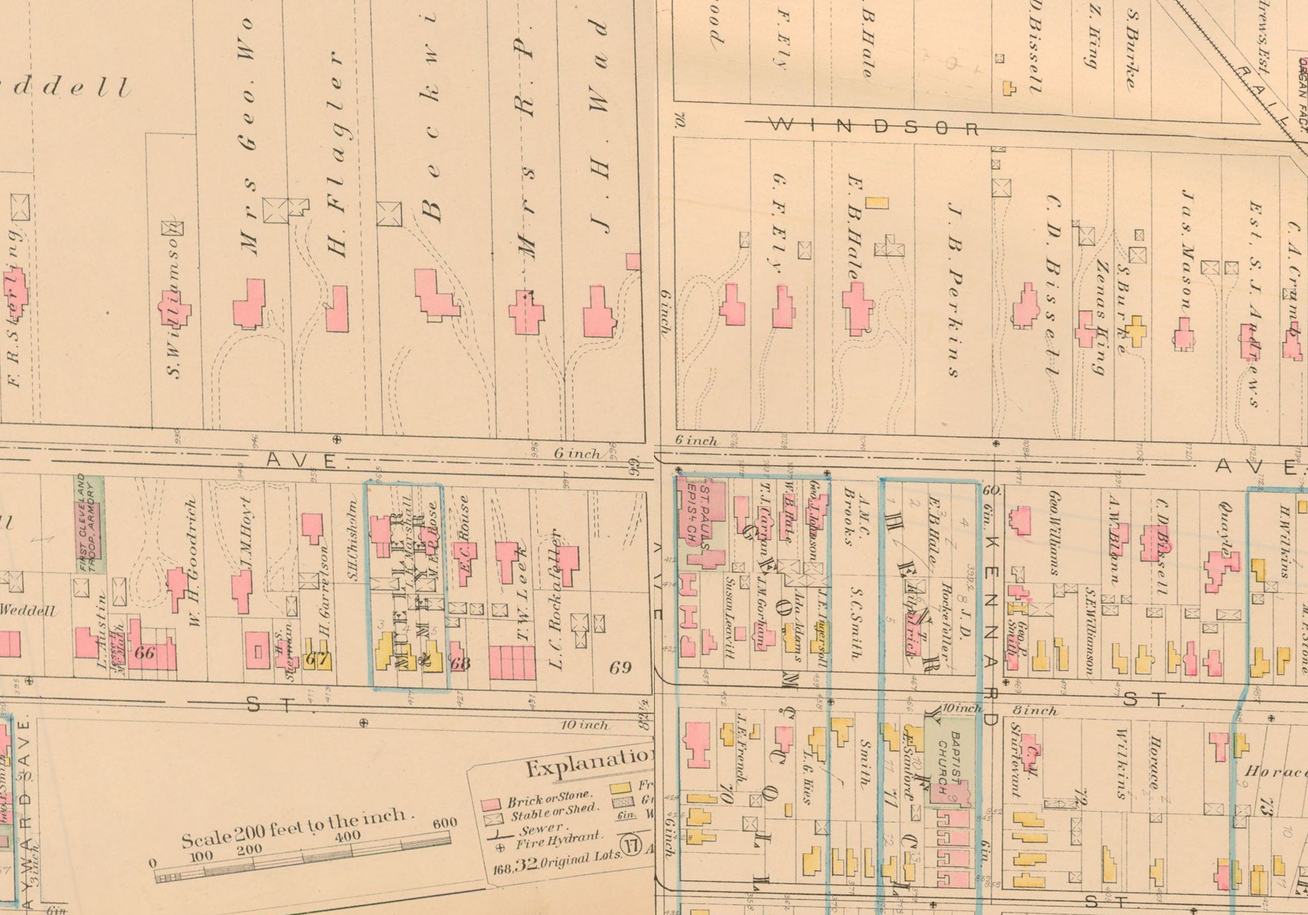
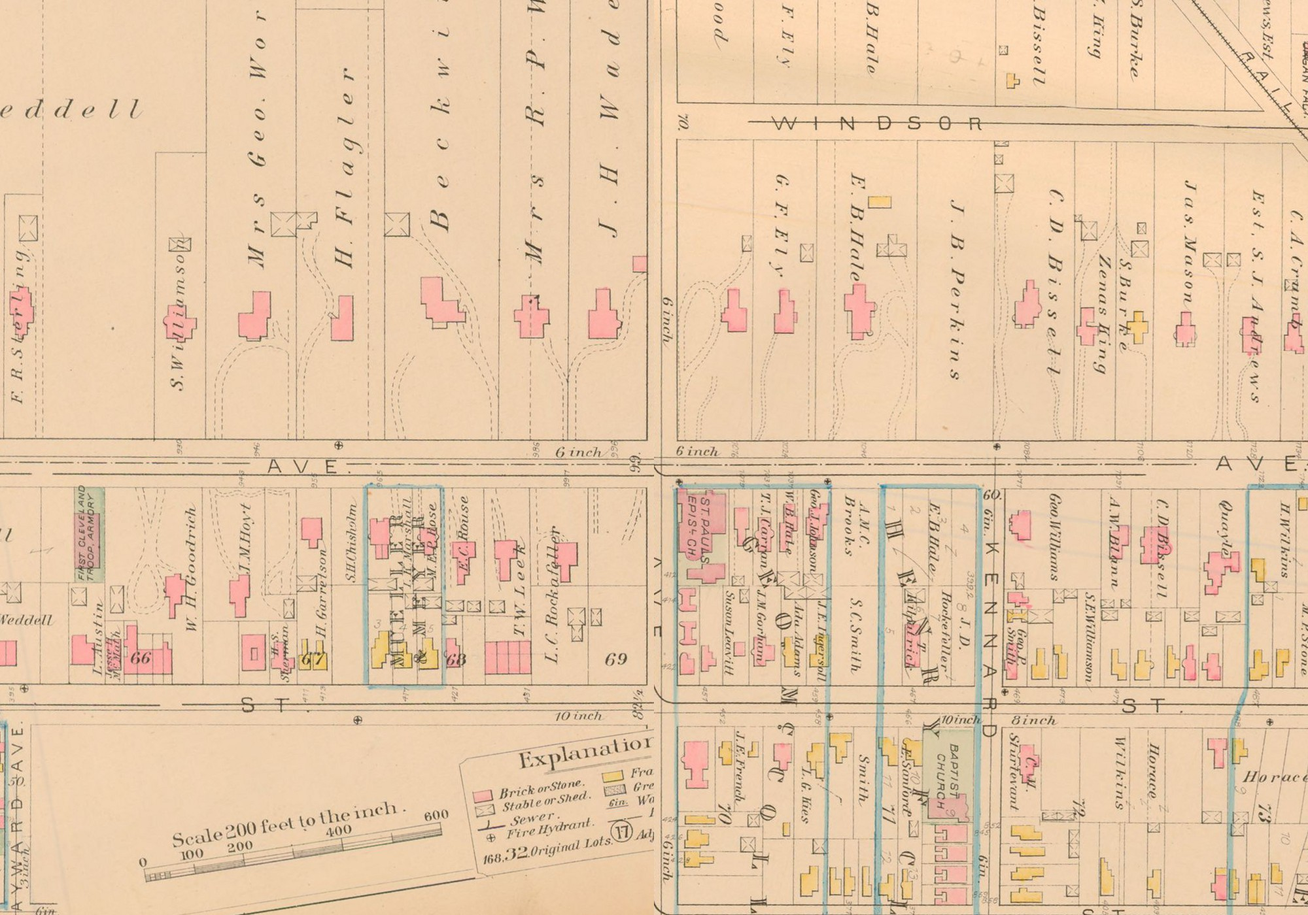
Fix the plate seam at Case: refine both plates against measured street lines
The four-point affine fits left Euclid tilted ~1.7 degrees and a ~20 px step in Euclid and
Prospect at the seam. A second pass pulls lot lines and Case lines measured on both plates onto
shared targets; building footprints and the Everett and St. Paul's station cameras move with it.

diff --git a/src/data/site.ts b/src/data/site.ts
@@ -53,7 +53,7 @@ export const BUILDINGS: Building[] = [
     address: '4111 Euclid (NE corner)',
     owner1888: 'Sylvester T. Everett',
     plateLabel: 'C. C. Atwood (pre-Everett lot)',
-    plate: [1082, 592],
+    plate: [1084, 606],
     kind: 'mesh',
     size: [32, 25, 19],
     status: 'Demolished 1938',
@@ -75,7 +75,7 @@ export const BUILDINGS: Building[] = [
     address: '3917 Euclid (NW corner)',
     owner1888: 'Jeptha H. Wade Sr.',
     plateLabel: 'J. H. Wade',
-    plate: [915, 475],
+    plate: [923, 478],
     kind: 'villa',
     size: [18, 9.5, 20],
     status: 'Torn down 1890 by his will',
@@ -93,7 +93,7 @@ export const BUILDINGS: Building[] = [
     address: '3903 Euclid',
     owner1888: 'Jeptha H. Wade Jr. (Randall d. 1876)',
     plateLabel: 'Mrs. R. P. Wade',
-    plate: [805, 481],
+    plate: [813, 487],
     kind: 'villa',
     size: [17, 9, 19],
     status: 'Razed 1934',
@@ -110,7 +110,7 @@ export const BUILDINGS: Building[] = [
     address: '3813 Euclid',
     owner1888: 'T. S. Beckwith estate',
     plateLabel: 'Beckwith Est.',
-    plate: [667, 457],
+    plate: [676, 468],
     kind: 'villa',
     size: [19, 10, 20],
     status: 'Survives — the calibration building',
@@ -127,7 +127,7 @@ export const BUILDINGS: Building[] = [
     address: '3725 Euclid',
     owner1888: 'Charles F. Brush',
     plateLabel: 'T. R. Scowden + H. Flagler',
-    plate: [565, 463],
+    plate: [573, 476],
     kind: 'romanesque',
     size: [22, 13, 24],
     status: 'Razed 1929 by his will',
@@ -144,7 +144,7 @@ export const BUILDINGS: Building[] = [
     address: '3920 Euclid (SW corner)',
     owner1888: 'John D. Rockefeller (in New York; kept with caretakers)',
     plateLabel: 'L. C. Rockefeller',
-    plate: [866, 866],
+    plate: [863, 860],
     kind: 'mansard',
     size: [15, 9, 18],
     status: 'Demolished 1938',
@@ -162,7 +162,7 @@ export const BUILDINGS: Building[] = [
     address: 'SE corner, Euclid & Case',
     owner1888: 'Parish of St. Paul’s',
     plateLabel: 'St. Paul’s Epis. Ch.',
-    plate: [1076, 772],
+    plate: [1076, 791],
     kind: 'church',
     size: [16, 11, 32],
     status: 'Survives (converted 2021)',
@@ -196,16 +196,16 @@ export const STATIONS: Station[] = [
     id: 'everett',
     title: 'Everett, from the SW lawn',
     caption: 'CPL 63 — the oblique the spike scores against. Camera position approximate.',
-    position: [-6, 1.6, -14],
-    target: [32, 10, -44],
+    position: [-5, 1.6, -8],
+    target: [33, 10, -38],
     photo: { url: '/img/everett-63.jpg', id: 'p4014coll14:63', label: 'Everett residence, c. 1886', aspect: 1393 / 1062 },
   },
   {
     id: 'everett-ne',
     title: 'Everett, from the NE',
     caption: 'No photograph of this side exists. What you see here is the model’s invention — strip it with the Evidence slider.',
-    position: [66, 1.7, -86],
-    target: [32, 8, -44],
+    position: [67, 1.7, -80],
+    target: [33, 8, -38],
   },
   {
     id: 'wade',
@@ -228,7 +228,7 @@ export const STATIONS: Station[] = [
     title: 'St. Paul’s, across Euclid',
     caption: 'The bells are up — and silent until 1890.',
     position: [4, 1.6, -15],
-    target: [30, 12, 27],
+    target: [30, 12, 35],
     photo: { url: '/img/st-pauls-9222.jpg', id: 'p4014coll18:9222', label: 'St. Paul’s (Liebich stereograph)', aspect: 565 / 657 },
   },
   {

diff --git a/scripts/compose_plate.py b/scripts/compose_plate.py
@@ -6,8 +6,9 @@ at the image centre. Plate 3 supplies everything west of Case, Plate 5 everythin
 seam runs exactly along the Case centreline and both streets continue straight across it.
 
 The plates disagree slightly with each other (Case meets Euclid at ~93° on Plate 3, ~88° on
-Plate 5; the Euclid-to-Prospect lot depth differs by ~10%) — ordinary engraving distortion. The
-affine fit absorbs it; the lot depth uses the mean of the two plates. Scale ≈ 0.41 m/px, from the
+Plate 5; the Euclid-to-Prospect lot depth differs by ~5%) — ordinary engraving distortion. The
+affine fits absorb it, refined against street lines measured on both sides of the seam (see FIX3 /
+FIX5); the lot depth uses the mean of the two plates. Scale ≈ 0.41 m/px, from the
 plates' 200 ft/inch scale bars.
 
 usage: compose_plate.py plate3.jpg plate5.jpg out.jpg
@@ -46,6 +47,40 @@ M5 = affine(
     [P5['case'], P5['prospect'], P5['euclid_e'], P5['case_n']],
     [C, C + [0, DEPTH], C + [dist(P5['case'], P5['euclid_e']), 0], C - [0, NORTH]],
 )
+
+
+# Refinement. The four-point fits above left Euclid tilted ~1.7° (falling to the east) on both
+# plates, Case sheared on Plate 3, and a ~20 px step in Euclid and Prospect at the seam. These are
+# line positions measured on that first composite (darkness profiles across each street), each
+# pulled to where the straight-street frame puts it. An E–W line point fixes y only ('v'); a N–S
+# line point fixes x only ('u'). Both plates are pulled to the same targets, so they meet at the seam.
+EUC_H = 26.75          # half the engraved Euclid lot-line-to-lot-line width (55 px P3, 52 px P5)
+PROS_C, PROS_H = 1062, 14  # Prospect centre (mean Euclid→Prospect depth, 371 / 351 px) and half width
+CASE_X = 11            # Case lines either side of the seam (centreline at x = W/2)
+FIX3 = [('v', x, y, 700 - EUC_H) for x, y in [(520, 663), (720, 670), (950, 677)]] + \
+       [('v', x, y, 700 + EUC_H) for x, y in [(520, 719), (720, 726), (950, 732)]] + \
+       [('v', x, y, PROS_C - PROS_H) for x, y in [(520, 1049), (720, 1055), (950, 1061)]] + \
+       [('v', x, y, PROS_C + PROS_H) for x, y in [(520, 1080), (720, 1085), (950, 1090)]] + \
+       [('u', x, y, W / 2 - CASE_X) for x, y in [(980, 425), (984, 600), (990, 815), (994, 965), (1001, 1200)]]
+FIX5 = [('v', x, y, 700 - EUC_H) for x, y in [(1050, 657), (1280, 663), (1520, 669)]] + \
+       [('v', x, y, 700 + EUC_H) for x, y in [(1050, 709), (1280, 714), (1520, 720)]] + \
+       [('v', x, y, PROS_C - PROS_H) for x, y in [(1050, 1021), (1280, 1028)]] + \
+       [('v', x, y, PROS_C + PROS_H) for x, y in [(1050, 1047), (1280, 1054)]] + \
+       [('u', x, y, W / 2 + CASE_X) for x, y in [(1008, 425), (1009, 600), (1011, 815), (1012, 965), (1014, 1200)]]
+
+
+def refine(fixes):
+    """Correction K (3×3) in output space: y' = a·y + c·x + b (level + depth), x' = x + f·(y − 700) + e (shear + offset)."""
+    vs = [(x, y, t) for k, x, y, t in fixes if k == 'v']
+    us = [(x, y, t) for k, x, y, t in fixes if k == 'u']
+    a, c, b = np.linalg.lstsq(np.array([[y, x, 1] for x, y, _ in vs], float), np.array([t for *_, t in vs], float), rcond=None)[0]
+    f, e = np.linalg.lstsq(np.array([[y - 700, 1] for x, y, _ in us], float), np.array([t - x for x, y, t in us], float), rcond=None)[0]
+    return np.array([[1, f, e - 700 * f], [c, a, b], [0, 0, 1]])
+
+
+K3, K5 = refine(FIX3), refine(FIX5)
+M3 = (K3 @ np.vstack([M3, [0, 0, 1]]))[:2]
+M5 = (K5 @ np.vstack([M5, [0, 0, 1]]))[:2]
 
 
 def apply(M, p):
